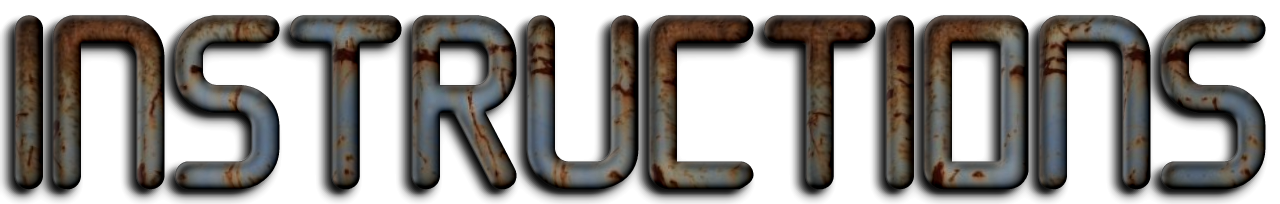
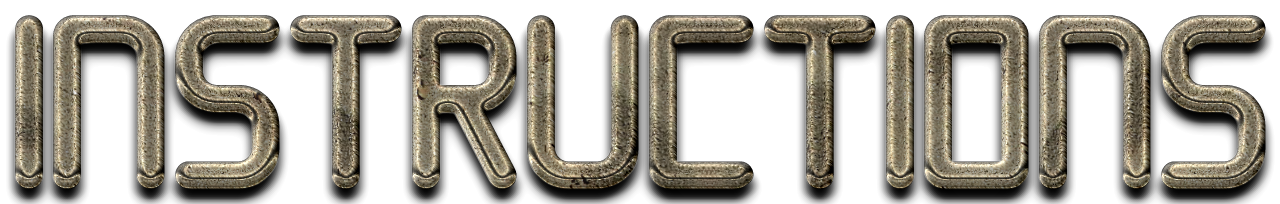
Changed backgroud and labels

diff --git a/Scripts/scenes/End.ts b/Scripts/scenes/End.ts
@@ -4,6 +4,7 @@ module scenes {
     private _background: objects.Image;
     private _restartButton: objects.Image;
     private _mainButton: objects.Image;
+    private _gameOverLabel: objects.Image;
     private _scoresLabel: objects.Label;
 
     // PUBLIC PROPERTIES
@@ -13,13 +14,23 @@ module scenes {
       super();
 
       this._background = new objects.Image(
-        util.BACKGROUND_PATH_END,
+        util.BACKGROUND_PATH_GAME,
         0,
         0,
         util.STAGE_W,
         util.STAGE_H,
         false
       );
+
+      this._gameOverLabel = new objects.Image(
+        util.GAME_OVER_PATH,
+        500,
+        100,
+        500,
+        150,
+        true
+      );
+
       this._restartButton = new objects.Image(
         util.RESTART_BUTTON,
         480,
@@ -62,6 +73,7 @@ module scenes {
       this.addChild(this._scoresLabel);
       this.addChild(this._restartButton);
       this.addChild(this._mainButton);
+      this.addChild(this._gameOverLabel);
 
       this.Main();
     }

diff --git a/Scripts/scenes/End.js b/Scripts/scenes/End.js
@@ -6,7 +6,8 @@ var scenes;
         // CONTRUCTOR
         constructor() {
             super();
-            this._background = new objects.Image(util.BACKGROUND_PATH_END, 0, 0, util.STAGE_W, util.STAGE_H, false);
+            this._background = new objects.Image(util.BACKGROUND_PATH_GAME, 0, 0, util.STAGE_W, util.STAGE_H, false);
+            this._gameOverLabel = new objects.Image(util.GAME_OVER_PATH, 500, 100, 500, 150, true);
             this._restartButton = new objects.Image(util.RESTART_BUTTON, 480, 450, 150, 50, true);
             this._mainButton = new objects.Image(util.MAIN_BUTTON, 480, 530, 150, 50, true);
             let score = "Player A Score: " +
@@ -22,6 +23,7 @@ var scenes;
             this.addChild(this._scoresLabel);
             this.addChild(this._restartButton);
             this.addChild(this._mainButton);
+            this.addChild(this._gameOverLabel);
             this.Main();
         }
         Update() { }

diff --git a/Scripts/scenes/Start.js b/Scripts/scenes/Start.js
@@ -6,7 +6,8 @@ var scenes;
         // CONTRUCTOR
         constructor() {
             super();
-            this._background = new objects.Image(util.BACKGROUND_PATH, 0, 0, util.STAGE_W, util.STAGE_H, false);
+            this._background = new objects.Image(util.BACKGROUND_PATH_GAME, 0, 0, util.STAGE_W, util.STAGE_H, false);
+            this._furyLabel = new objects.Image(util.FURY_PATH, 500, 100, 500, 150, true);
             this._startButton = new objects.Image(util.PLAY_BUTTON, 480, 450, 150, 50, true);
             this._instructionsButton = new objects.Image(util.INSTRUCTION_BUTTON, 480, 530, 150, 50, true);
             this.Start();
@@ -16,6 +17,7 @@ var scenes;
             this.addChild(this._background);
             this.addChild(this._startButton);
             this.addChild(this._instructionsButton);
+            this.addChild(this._furyLabel);
             this.Main();
         }
         Update() { }

diff --git a/Scripts/scenes/Start.ts b/Scripts/scenes/Start.ts
@@ -4,6 +4,7 @@ module scenes {
     private _background: objects.Image;
     private _startButton: objects.Image;
     private _instructionsButton: objects.Image;
+    private _furyLabel: objects.Image;
 
     // PUBLIC PROPERTIES
 
@@ -12,13 +13,23 @@ module scenes {
       super();
 
       this._background = new objects.Image(
-        util.BACKGROUND_PATH,
+        util.BACKGROUND_PATH_GAME,
         0,
         0,
         util.STAGE_W,
         util.STAGE_H,
         false
       );
+
+      this._furyLabel = new objects.Image(
+        util.FURY_PATH,
+        500,
+        100,
+        500,
+        150,
+        true
+      );
+
 
 
       this._startButton = new objects.Image(
@@ -48,7 +59,7 @@ module scenes {
       this.addChild(this._background);
       this.addChild(this._startButton);
       this.addChild(this._instructionsButton)
-
+      this.addChild(this._furyLabel)
       this.Main();
     }
 

diff --git a/Scripts/util/constants.ts b/Scripts/util/constants.ts
@@ -1,9 +1,9 @@
 module util {
   // image assets
-  export const BACKGROUND_PATH: string = "./Assets/images/first-screen.png";
   export const BACKGROUND_PATH_GAME: string = "./Assets/images/game-screen.png";
-  export const BACKGROUND_PATH_END: string = "./Assets/images/final-screen.png";
-  export const NEXT_BATTLE_PATH: string = "./Assets/images/NextBattle.png";
+  export const FURY_PATH: string = "./Assets/images/fury.png";
+  export const GAME_OVER_PATH: string = "./Assets/images/game-over.png";
+  export const NEXT_BATTLE_PATH: string = "./Assets/images/next-battle.png";
   export const INSTRUCTIONS: string = "./Assets/images/instructions.png"
   export const INSTRUCTION_PATH: string = "./Assets/images/instruction.png";
 

diff --git a/Scripts/scenes/StageCleaned.ts b/Scripts/scenes/StageCleaned.ts
@@ -21,6 +21,7 @@ module scenes {
         util.STAGE_H,
         false
       );
+      
       this._nextButton = new objects.Image(
         util.NEXT_BUTTON,
         480,
@@ -29,6 +30,7 @@ module scenes {
         50,
         true
       );
+
       this._nextBattleLabel = new objects.Image(
         util.NEXT_BATTLE_PATH,
         500,
@@ -37,6 +39,7 @@ module scenes {
         150,
         true
       );
+
       let description =
         "In next level, they met in a more dangerous place.  \n\nAdvanced map with randomly generated MINEs \n\nwhich might damage the submarines. \n\nBe careful! \n\nAvoid mines and kill them all!";
       this._descriptionLabel = new objects.Label(

diff --git a/Scripts/util/constants.js b/Scripts/util/constants.js
@@ -2,10 +2,10 @@
 var util;
 (function (util) {
     // image assets
-    util.BACKGROUND_PATH = "./Assets/images/first-screen.png";
     util.BACKGROUND_PATH_GAME = "./Assets/images/game-screen.png";
-    util.BACKGROUND_PATH_END = "./Assets/images/final-screen.png";
-    util.NEXT_BATTLE_PATH = "./Assets/images/NextBattle.png";
+    util.FURY_PATH = "./Assets/images/fury.png";
+    util.GAME_OVER_PATH = "./Assets/images/game-over.png";
+    util.NEXT_BATTLE_PATH = "./Assets/images/next-battle.png";
     util.INSTRUCTIONS = "./Assets/images/instructions.png";
     util.INSTRUCTION_PATH = "./Assets/images/instruction.png";
     // Player image assets
